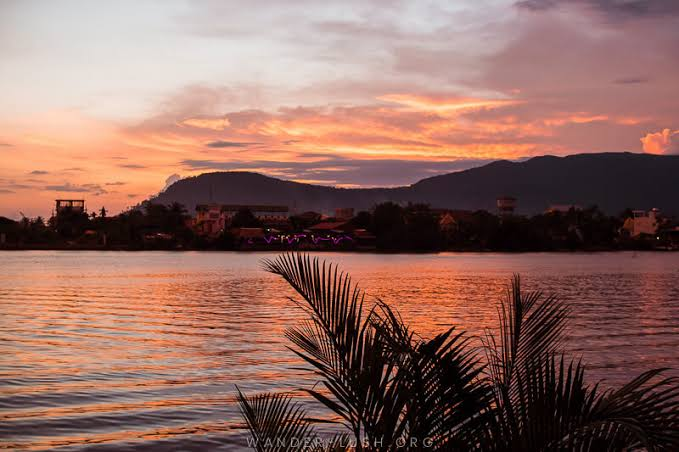
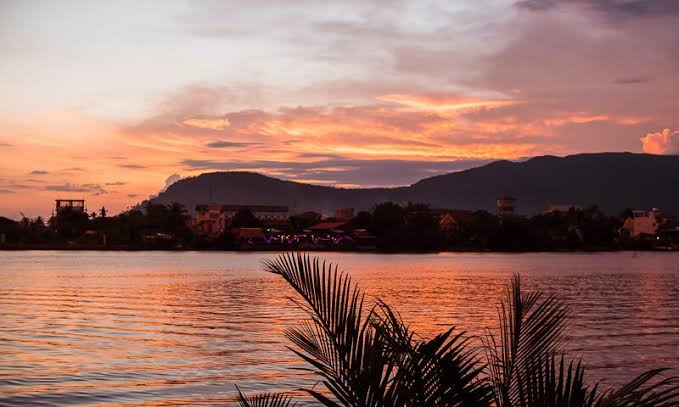
Fix contact form mailto and crop Kampot.jpg

diff --git a/index.html b/index.html
@@ -1154,9 +1154,18 @@ function handleSubmit(e) {
     `Email: ${d.get('email')}`,
     `Country: ${d.get('country') || '—'}`,
     `Subject: ${d.get('subject')}`,
-    `Message: ${d.get('message') || '—'}`
+    `Message:\n${d.get('message') || '—'}`
   ].join('\n');
-  window.location.href = `mailto:[email redacted]?subject=${encodeURIComponent(subject)}&body=${encodeURIComponent(body)}`;
+  const a = document.createElement('a');
+  a.href = `mailto:[email redacted]?subject=${encodeURIComponent(subject)}&body=${encodeURIComponent(body)}`;
+  document.body.appendChild(a);
+  a.click();
+  document.body.removeChild(a);
+  const btn = f.querySelector('.form-submit');
+  const orig = btn.textContent;
+  btn.textContent = 'Opening email client…';
+  btn.disabled = true;
+  setTimeout(() => { btn.textContent = orig; btn.disabled = false; }, 4000);
 }
 
 // Mobile nav